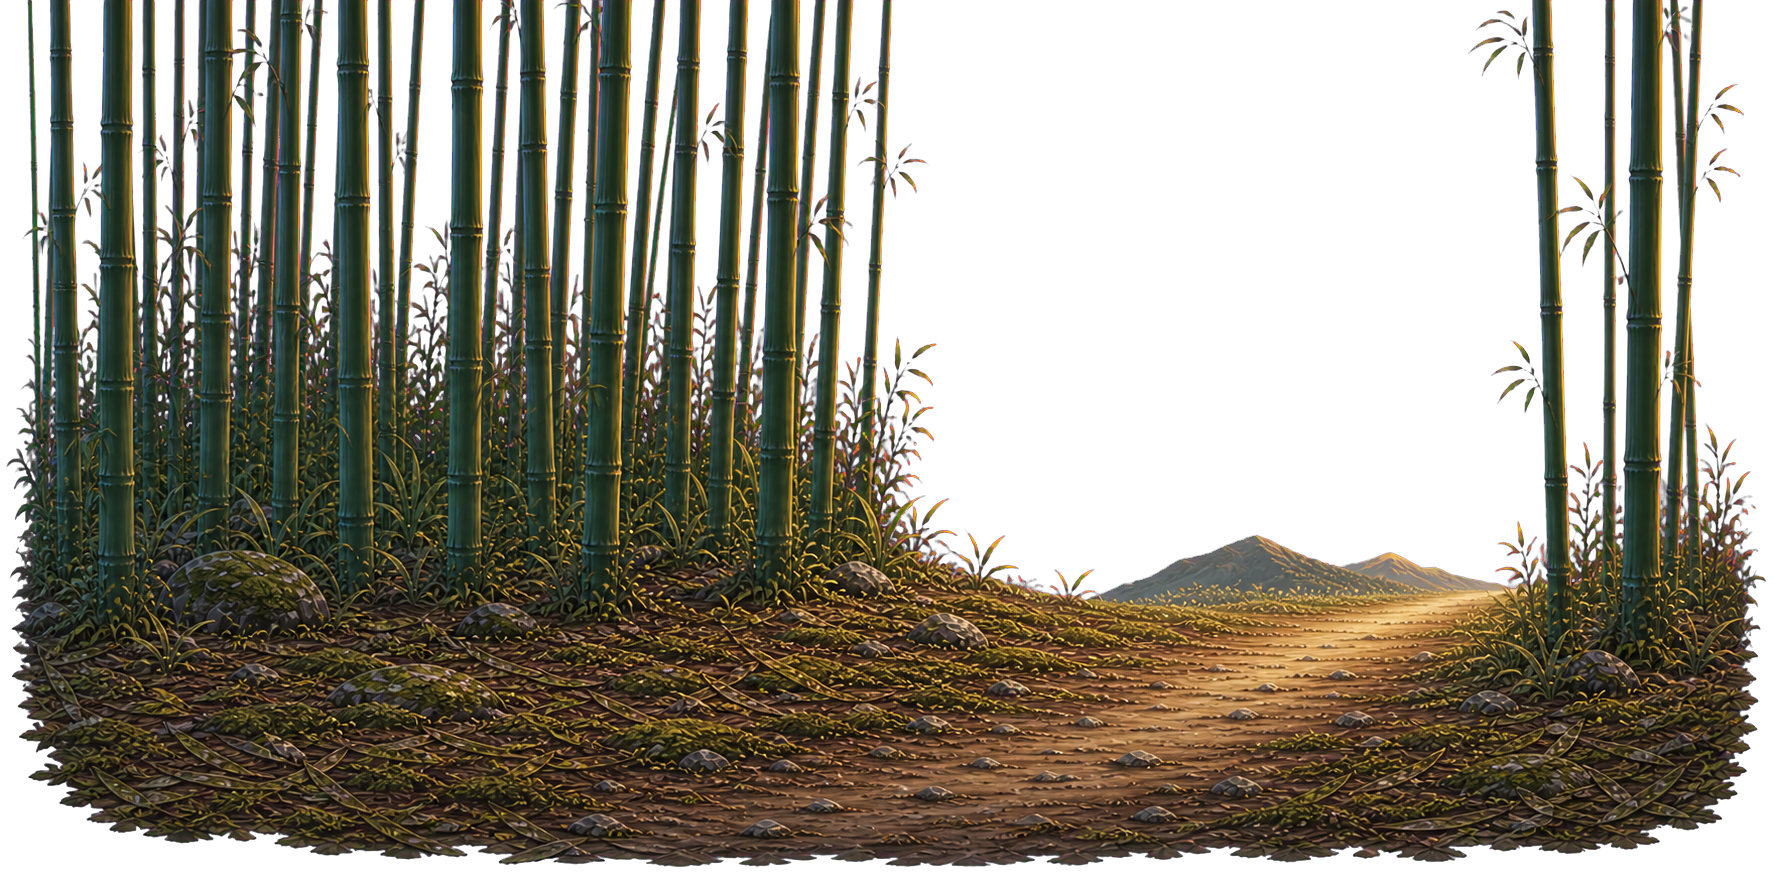
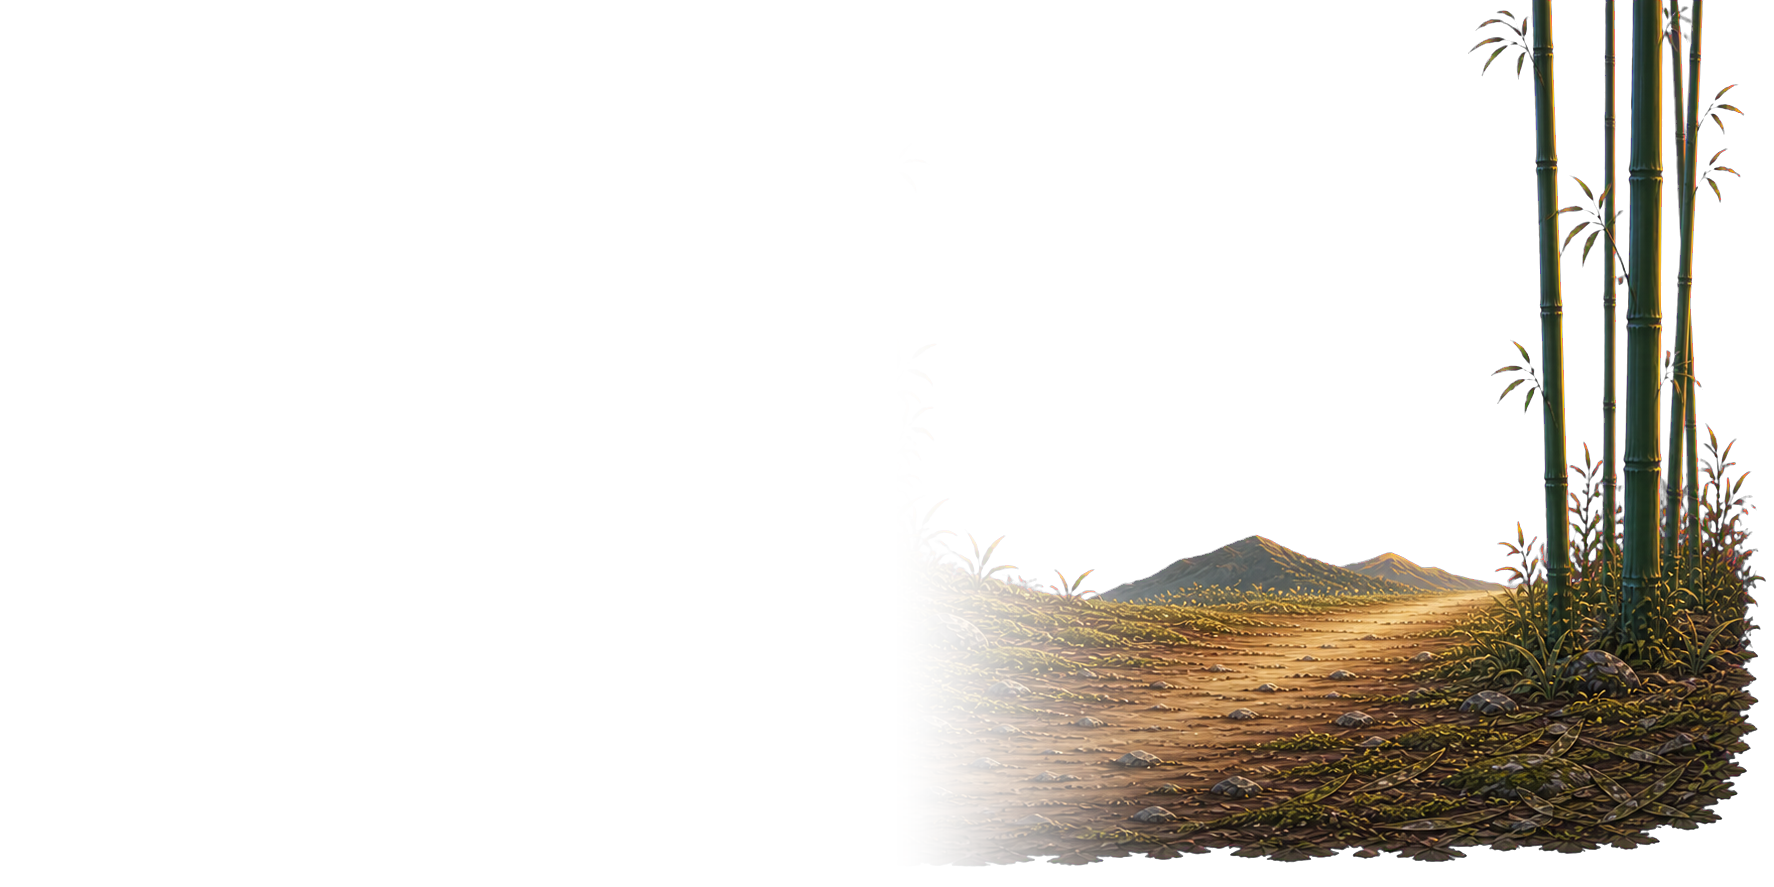
refactor: optimize bamboo forest rendering with new ground blending and remove unused asset images.

diff --git a/js/stage.js b/js/stage.js
@@ -130,13 +130,13 @@ export class Stage {
         // --- Stage 1/2 地面画像 ---
         if (this.stageNumber === 1) {
             this.stage1GroundImage = new Image();
-            this.stage1GroundImage.src = 'images/stage1_ground_bamboo_tile.png?v=20260706_new1';
+            this.stage1GroundImage.src = 'images/stage1_ground_bamboo_tile.png?v=20260706_new2';
             this.stage1BambooBackLayerImage = new Image();
-            this.stage1BambooBackLayerImage.src = 'images/stage1_bamboo_back_layer.png?v=20260706_new1';
+            this.stage1BambooBackLayerImage.src = 'images/stage1_bamboo_back_layer.png?v=20260706_new2';
             this.stage1BambooMidLayerImage = new Image();
-            this.stage1BambooMidLayerImage.src = 'images/stage1_bamboo_mid_layer.png?v=20260706_new1';
+            this.stage1BambooMidLayerImage.src = 'images/stage1_bamboo_mid_layer.png?v=20260706_new2';
             this.stage1BambooLastObjectImage = new Image();
-            this.stage1BambooLastObjectImage.src = 'images/stage1_bamboo_last_object.png?v=20260706_new1';
+            this.stage1BambooLastObjectImage.src = 'images/stage1_bamboo_last_object.png?v=20260706_new3';
         }
         if (this.stageNumber === 2) {
             this.stage2GroundImage = new Image();
@@ -2080,6 +2080,22 @@ export class Stage {
         return t * t * (3 - 2 * t);
     }
 
+    getBossScrollStopX() {
+        return Math.max(1, this.maxProgress - CANVAS_WIDTH);
+    }
+
+    getStage6ScrollProgress() {
+        return this.clamp01(this.progress / this.getBossScrollStopX());
+    }
+
+    getStage6SunPhase() {
+        return this.clamp01((this.getStage6ScrollProgress() - 0.82) / 0.18);
+    }
+
+    getStage6SunTheta() {
+        return -0.22 + this.smoothstep(0, 1, this.getStage6SunPhase()) * 0.42;
+    }
+
     updateBambooLeafEffects(deltaTime) {
         if (this.stageNumber !== 1) {
             this.bambooFallingLeaves.length = 0;
@@ -2386,7 +2402,8 @@ export class Stage {
                 const localP = (p - moonGoneStart) / (moonGoneEnd - moonGoneStart);
                 // 入り: 0→0.1 でフェードイン、出: 0.85→1.0 でフェードアウト
                 const inFade  = this.smoothstep(0, 0.10, localP);
-                const outFade = 1 - this.smoothstep(0.82, 1.0, localP);
+                const sunApproach = this.smoothstep(0.72, 1.0, this.getStage6ScrollProgress());
+                const outFade = (1 - this.smoothstep(0.82, 1.0, localP)) * (1 - sunApproach);
                 const blueStr = inFade * outFade;
                 if (blueStr > 0.001) {
                     const deepNight = ctx.createLinearGradient(0, 0, 0, this.groundY);
@@ -3200,16 +3217,20 @@ export class Stage {
             return null;
         }
 
-        const drawH = 560;
-        const drawW = Math.ceil(drawH * (image.naturalWidth / image.naturalHeight) * 0.86);
+        const sourceX = Math.round(image.naturalWidth * 0.39);
+        const sourceY = 0;
+        const sourceW = image.naturalWidth - sourceX;
+        const sourceH = image.naturalHeight;
+        const drawH = 500;
+        const drawW = Math.ceil(drawH * (sourceW / sourceH) * 0.98);
         const cameraStopX = Math.max(0, this.maxProgress - CANVAS_WIDTH);
-        const worldX = cameraStopX + CANVAS_WIDTH - drawW + 24;
+        const worldX = cameraStopX + CANVAS_WIDTH - drawW + 8;
         const x = Math.round(worldX - progress);
-        const y = Math.round(this.groundY + 108 - drawH);
+        const y = Math.round(this.groundY + 100 - drawH);
         if (x + drawW < -120 || x > CANVAS_WIDTH + 120) {
             return null;
         }
-        return { image, x, y, w: drawW, h: drawH };
+        return { image, sourceX, sourceY, sourceW, sourceH, x, y, w: drawW, h: drawH };
     }
 
     renderStage1BambooLastObject(ctx, progress = this.progress) {
@@ -3218,7 +3239,11 @@ export class Stage {
 
         ctx.save();
         ctx.filter = 'brightness(0.88) saturate(0.9) contrast(0.98)';
-        ctx.drawImage(layout.image, layout.x, layout.y, layout.w, layout.h);
+        ctx.drawImage(
+            layout.image,
+            layout.sourceX, layout.sourceY, layout.sourceW, layout.sourceH,
+            layout.x, layout.y, layout.w, layout.h
+        );
         ctx.filter = 'none';
         ctx.restore();
         return true;
@@ -3546,6 +3571,7 @@ export class Stage {
         // 竹林の動的な葉の降下エフェクト（地面描画の後に重ねる）
         if (this.stageNumber === 1) {
             this.renderStage1BambooLastObject(ctx, renderProgress);
+            this.renderStage1BambooGroundBlend(ctx, renderProgress, darken);
             this.renderBambooFallingLeaves(ctx);
         }
     }
@@ -3586,11 +3612,13 @@ export class Stage {
         const scroll = Math.floor((renderProgress * scrollScale) % drawW);
         const y = Math.floor(horizonY + (options.yOffset ?? -18));
         const startX = -scroll - drawW;
+        const clipTop = horizonY + (options.clipTopOffset ?? 0);
 
         ctx.save();
         ctx.beginPath();
-        ctx.rect(0, horizonY, CANVAS_WIDTH, Math.max(0, groundHeight));
+        ctx.rect(0, clipTop, CANVAS_WIDTH, Math.max(0, bottomY - clipTop));
         ctx.clip();
+        ctx.globalAlpha *= options.alpha ?? 1;
         if (options.filter) ctx.filter = options.filter;
         let tileIndex = 0;
         for (let x = startX; x < CANVAS_WIDTH + drawW; x += drawW, tileIndex++) {
@@ -3609,6 +3637,63 @@ export class Stage {
         return true;
     }
 
+    renderStage1BambooGroundBlend(ctx, renderProgress, darken) {
+        const horizonY = this.groundY;
+        const bandTop = horizonY - 82;
+        const bandBottom = horizonY + 108;
+
+        ctx.save();
+        ctx.beginPath();
+        ctx.rect(0, bandTop, CANVAS_WIDTH, bandBottom - bandTop);
+        ctx.clip();
+
+        // 背景と同じ生成竹レイヤーを足元だけ重ね、地面画像の硬い切れ目を隠す。
+        this.renderStage1BambooTileLayer(ctx, this.stage1BambooBackLayerImage, renderProgress, {
+            parallax: 0.1,
+            alpha: 0.07,
+            drawHeight: this.groundY + 108,
+            bottomOffset: 72,
+            phase: 250,
+            widthScale: 0.72,
+            filter: 'blur(0.8px) brightness(0.72) saturate(0.76) contrast(0.82)'
+        });
+        this.renderStage1BambooTileLayer(ctx, this.stage1BambooMidLayerImage, renderProgress, {
+            parallax: 0.28,
+            alpha: 0.22,
+            drawHeight: this.groundY + 126,
+            bottomOffset: 88,
+            phase: 0,
+            widthScale: 0.74,
+            filter: 'brightness(0.76) saturate(0.88) contrast(0.98)'
+        });
+
+        const rootWash = ctx.createLinearGradient(0, horizonY - 68, 0, horizonY + 118);
+        rootWash.addColorStop(0, 'rgba(17, 43, 27, 0)');
+        rootWash.addColorStop(0.28, `rgba(20, 55, 31, ${(0.08 + darken * 0.03).toFixed(3)})`);
+        rootWash.addColorStop(0.58, `rgba(32, 45, 25, ${(0.11 + darken * 0.04).toFixed(3)})`);
+        rootWash.addColorStop(1, 'rgba(20, 28, 18, 0)');
+        ctx.fillStyle = rootWash;
+        ctx.fillRect(0, bandTop, CANVAS_WIDTH, bandBottom - bandTop);
+
+        const leafScroll = renderProgress * 0.5;
+        const step = 54;
+        const first = Math.floor((leafScroll - step) / step);
+        const last = Math.ceil((leafScroll + CANVAS_WIDTH + step) / step);
+        for (let i = first; i <= last; i++) {
+            const seed = i * 9.37;
+            const x = i * step - leafScroll + this.noiseSigned(seed) * 18;
+            const y = horizonY + 8 + this.noise1D(seed + 1.8) * 92;
+            if (x < -36 || x > CANVAS_WIDTH + 36) continue;
+            const clumpAlpha = (0.035 + this.noise1D(seed + 2.6) * 0.035) * (1 - darken * 0.35);
+            ctx.fillStyle = `rgba(58, 75, 35, ${clumpAlpha.toFixed(3)})`;
+            ctx.beginPath();
+            ctx.ellipse(x, y, 18 + this.noise1D(seed + 3.1) * 26, 4 + this.noise1D(seed + 4.4) * 5, this.noiseSigned(seed + 5.2) * 0.22, 0, Math.PI * 2);
+            ctx.fill();
+        }
+
+        ctx.restore();
+    }
+
     renderGroundBamboo(ctx, renderProgress, darken) {
         const horizonY = this.groundY; // 地平線（奥）。林床はここから手前へ広がる
         const bottomY = CANVAS_HEIGHT;
@@ -3624,11 +3709,21 @@ export class Stage {
 
         if (this.renderGroundImageTile(ctx, this.stage1GroundImage, horizonY, bottomY, renderProgress, {
             filter: 'brightness(1.02) saturate(0.96) contrast(1.02)',
-            extraHeight: 38,
-            yOffset: -18
+            extraHeight: 56,
+            yOffset: -34,
+            clipTopOffset: -16,
+            mirrorRepeat: true,
+            widthScale: 1.55
         })) {
             ctx.fillStyle = 'rgba(20, 64, 42, 0.08)';
-            ctx.fillRect(0, horizonY, CANVAS_WIDTH, span);
+            ctx.fillRect(0, horizonY - 36, CANVAS_WIDTH, span + 36);
+
+            const seamSoftener = ctx.createLinearGradient(0, horizonY - 68, 0, horizonY + 112);
+            seamSoftener.addColorStop(0, 'rgba(37, 66, 35, 0)');
+            seamSoftener.addColorStop(0.44, `rgba(31, 61, 34, ${(0.12 + darken * 0.04).toFixed(3)})`);
+            seamSoftener.addColorStop(1, 'rgba(18, 32, 20, 0)');
+            ctx.fillStyle = seamSoftener;
+            ctx.fillRect(0, horizonY - 68, CANVAS_WIDTH, 180);
 
             const bottomShade = ctx.createLinearGradient(0, horizonY + span * 0.34, 0, bottomY);
             bottomShade.addColorStop(0, 'rgba(0,0,0,0)');
@@ -4292,13 +4387,13 @@ export class Stage {
             const sunRadius = 135;  // 3倍 (140だと少し大きすぎるかもしれないので微調整)
 
             if (this.bossSpawned) {
-                // ボス戦中: 太陽を 2/3 程度表示される位置に固定 (theta = 0.2 くらい)
-                const theta = 0.2;
+                // ボス戦中: 太陽を 2/3 程度表示される最終位置に固定
+                const theta = this.getStage6SunTheta();
                 const sx = getX(theta);
                 const sy = getY(theta);
                 drawBody(sx, sy, sunRadius, 1, '#ffd9b4', '#ff7a33', `rgba(255, 160, 80, ALPHA)`, false);
             } else {
-                // 進行度を3分割する (0-0.4:月, 0.4-0.92:朝, 0.92-1.0:太陽)
+                // 進行度を3分割する (0-0.4:月, 0.4以降:朝、終盤スクロールで太陽)
                 if (progress < 0.4) {
                     const localP = progress / 0.4;
                     const theta = Math.PI / 2 + (localP * (Math.PI / 2 + 0.2)); // 中央から沈む
@@ -4306,15 +4401,17 @@ export class Stage {
                     const my = getY(theta);
                     const alpha = 1 - this.smoothstep(0.8, 1.0, localP);
                     drawBody(mx, my, moonRadius, alpha, '#f8f9fa', '#ced4da', `rgba(240, 248, 255, ALPHA)`, true);
-                } else if (progress > 0.92) {
-                    const localP = (progress - 0.92) / 0.08;
-                    const theta = -0.2 + localP * 0.4; // 地平線下から昇り、指定位置へ
+                }
+
+                const sunPhase = this.getStage6SunPhase();
+                if (sunPhase > 0) {
+                    const theta = this.getStage6SunTheta(); // 地平線下から昇り、ボス戦の固定位置へ
                     const sx = getX(theta);
                     const sy = getY(theta);
-                    const alpha = this.smoothstep(0, 0.3, localP);
+                    const alpha = this.smoothstep(0, 0.34, sunPhase);
                     drawBody(sx, sy, sunRadius, alpha, '#ffd9b4', '#ff7a33', `rgba(255, 160, 80, ALPHA)`, false);
                 }
-                // 0.4 - 0.92 の間は何もない「仄暗い朝」
+                // 月が消えた後、太陽が出るまでは何もない「仄暗い朝」
             }
         }
     }

diff --git a/js/shadow.js b/js/shadow.js
@@ -108,6 +108,7 @@ export class ShadowRenderer {
     getSunTheta(stage) {
         const p = Math.max(0, Math.min(1, stage.progress / stage.maxProgress));
         const stageP = stage.smoothstep ? stage.smoothstep(0, 1, p) : p;
+        const clamp01 = (v) => Math.max(0, Math.min(1, v));
 
         switch (stage.stageNumber) {
             case 1:  return Math.PI * (-0.34 + stageP * 0.58);
@@ -115,7 +116,16 @@ export class ShadowRenderer {
             case 3:  return Math.PI * (0.34 - stageP * 0.42);
             case 4:  return Math.PI * (0.06 - stageP * 0.38);
             case 5:  return Math.PI * (0.24 - stageP * 0.24);
-            case 6:  return Math.PI * (-0.56 + stageP * 0.7);
+            case 6: {
+                if (typeof stage.getStage6SunTheta === 'function') {
+                    return stage.getStage6SunTheta();
+                }
+                const stopX = Math.max(1, stage.maxProgress - CANVAS_WIDTH);
+                const scrollP = clamp01(stage.progress / stopX);
+                const rawPhase = clamp01((scrollP - 0.82) / 0.18);
+                const phase = stage.smoothstep ? stage.smoothstep(0, 1, rawPhase) : rawPhase;
+                return -0.22 + phase * 0.42;
+            }
             default: return Math.PI * (0.24 - stageP * 0.24);
         }
     }
